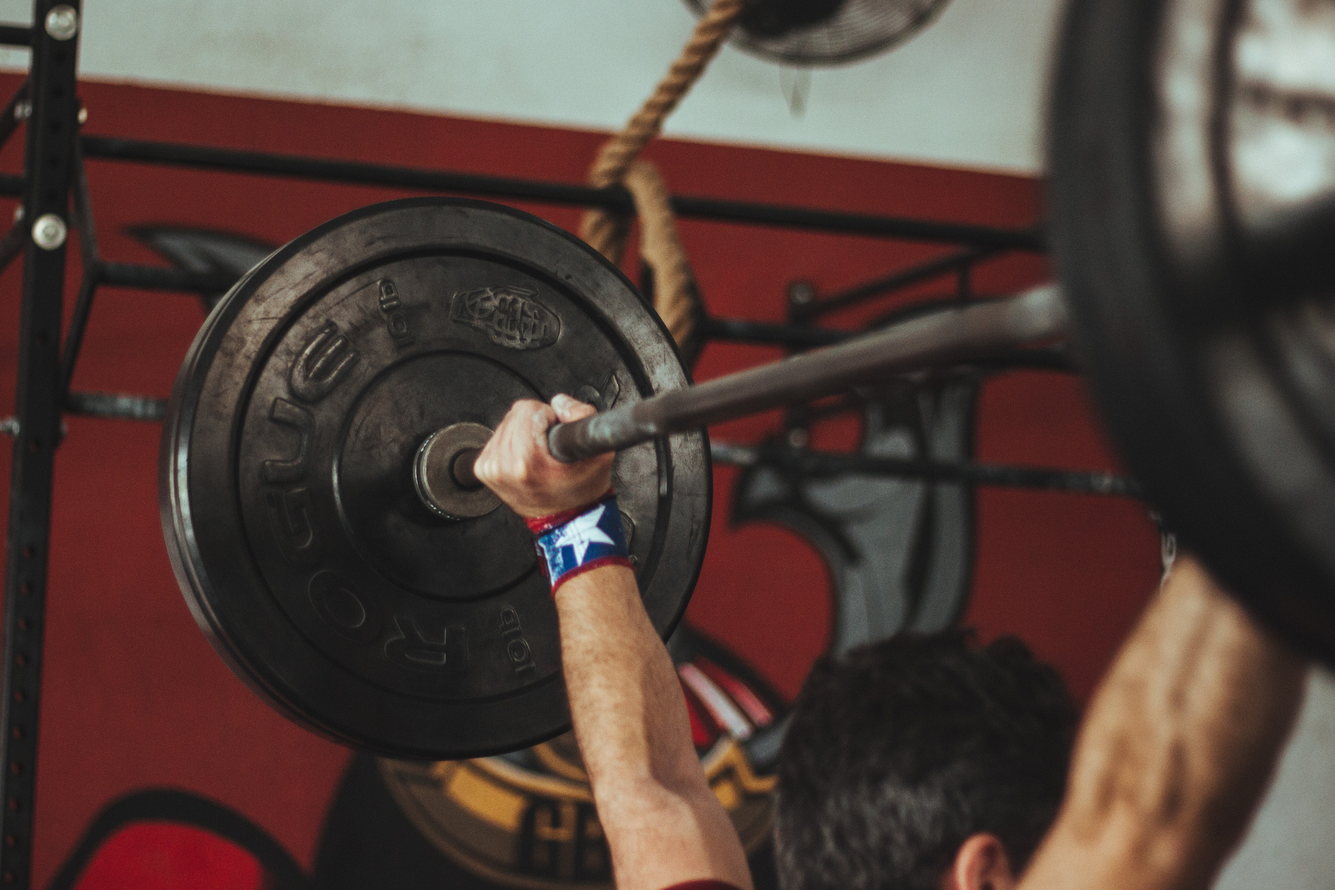
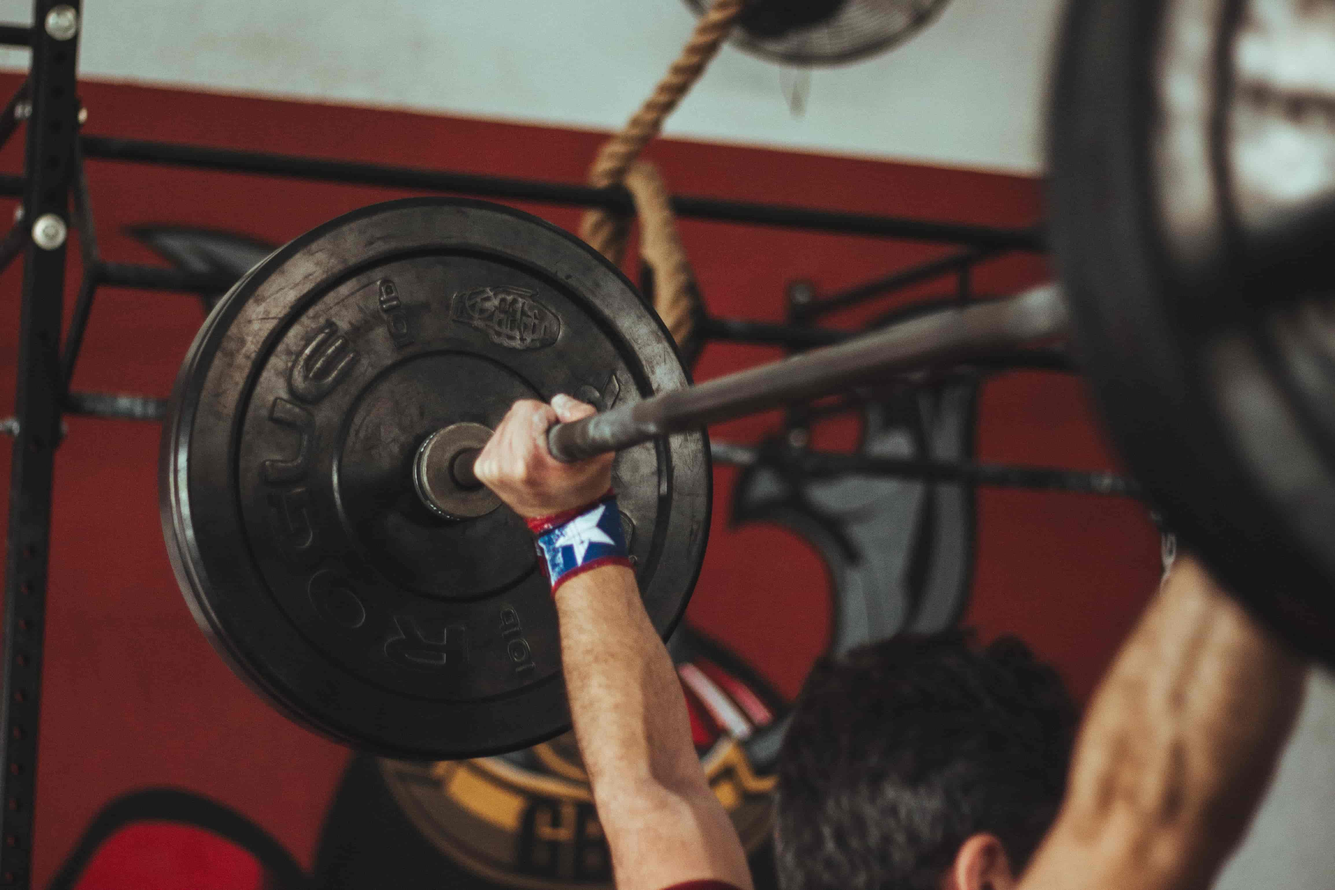
finished project

diff --git a/src/styles/App.css b/src/styles/App.css
@@ -665,7 +665,7 @@ footer ul li a:hover{
 /*process hero start*/
 
 .process-hero{
-  background-image: url("/process-hero.jpg");
+  background-image: url("/process-hero-min.jpg");
   z-index: 80;
   position: relative;
 }
@@ -762,17 +762,17 @@ footer ul li a:hover{
 }
 
 .process-main-div-image-one{
-  background-image: url("/process-image1.jpg");
+  background-image: url("/process-image1-min.jpg");
   background-position: bottom center;
 }
 
 .process-main-div-image-two{
-  background-image: url("/process-image2.jpg");
+  background-image: url("/process-image2-min.jpg");
   background-position: center center;
 }
 
 .process-main-div-image-three{
-  background-image: url("/process-image3.jpg");
+  background-image: url("/process-image3-min.jpg");
   background-position: center center;
 }
 
@@ -787,7 +787,7 @@ footer ul li a:hover{
 }
 
 .process-main-div-image-six{
-  background-image: url("/process-image6.jpg");
+  background-image: url("/process-image6-min.jpg");
 }
 
 .process-image-filter{
@@ -1004,7 +1004,7 @@ footer ul li a:hover{
 .form-page{
   width: 100%;
   min-height: 100vh;
-  background-image: url("/about-background1.jpg");
+  background-image: url("/about-background1-min.jpg");
   background-size: cover;
   display: flex;
   justify-content: center;
